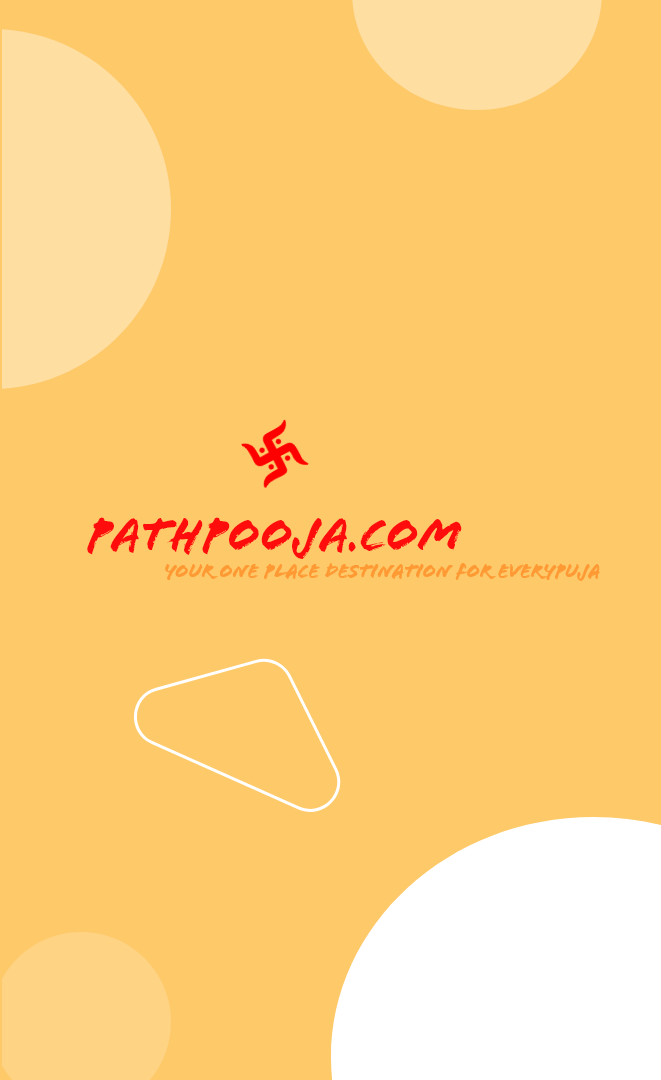
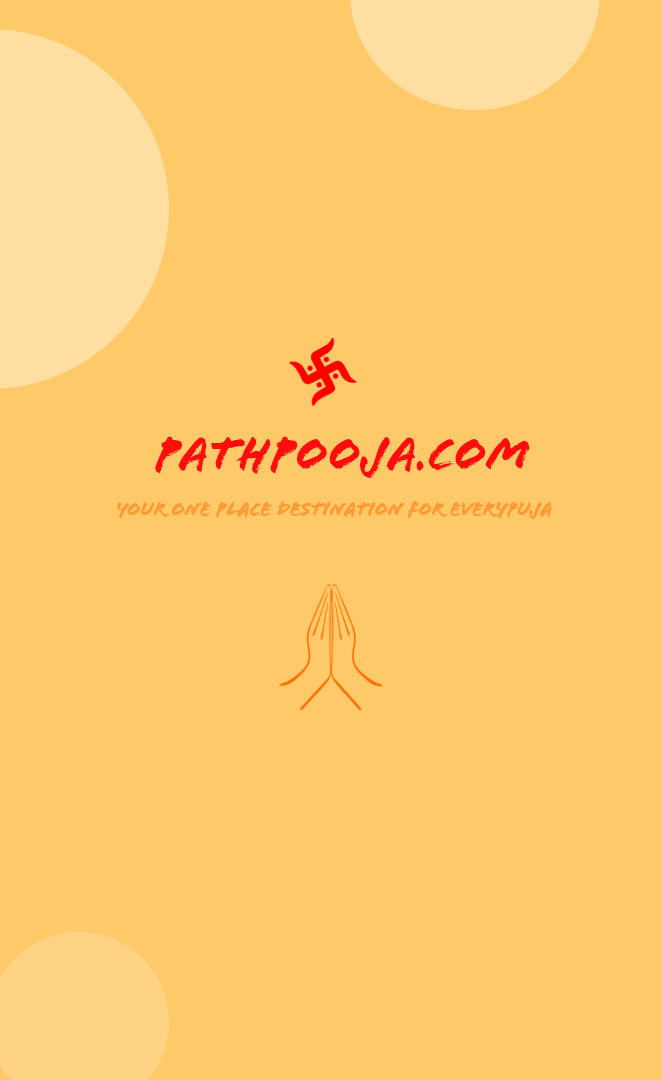
signup design

diff --git a/public/css/index.css b/public/css/index.css
@@ -325,10 +325,73 @@ h2{
     }
 }
 /*--------------------------------------------------*******************************************-----------------------------------------------*/
+.login-div{
+    position: relative;
+    width: 100%;
+    height: 102vh;
+}
+.login-footer{
+    position: absolute;
+    bottom: 0;
+    width: 100%;
+}
+
 .login-image{
     width: 100%;
     
 }
-.login-back{
-    background-color: wheat;
+.login-background{
+    background-color: #FEC969;
+    height: 100%;
+}
+.namaste{
+    width: 50%;
+    margin: 40% 20% ;
+}
+.row{
+    margin-right: 0;
+    position: absolute;
+    width: 100%;
+    
+}
+.red-button-login {
+    
+    border-color: whitesmoke;
+    color: red;
+    font-size: 1rem;
+    padding: .3rem 2.5rem;
+    border-radius: .5rem;
+    margin: 0 30%;
+    box-shadow: .1rem .1rem gray;
+    
+  }
+  .red-button-login:hover{
+      border-color: red;
+      color: whitesmoke;
+      background-color: red;
+      transform: scale(1.5);
+  }
+  .login-title{
+      position: absolute;
+      margin: 30% 29%;
+      font-size: 3.5rem;
+      font-family: 'Montserrat', sans-serif;
+      
+  }
+  .form-text{
+      margin: 15% 0 2% 0;
+      font-size: 1.2rem;
+  }
+  .text-box{
+      border: solid;
+      border-width: 1px;
+      border-radius: 12px;
+      padding: 5%;
+      box-shadow: 0.1rem 0.1rem black;
+  }
+  .input-box:hover{
+      transform: scale(1.2);
+  }
+.login-form{
+    padding: 7% 18%;
 }
